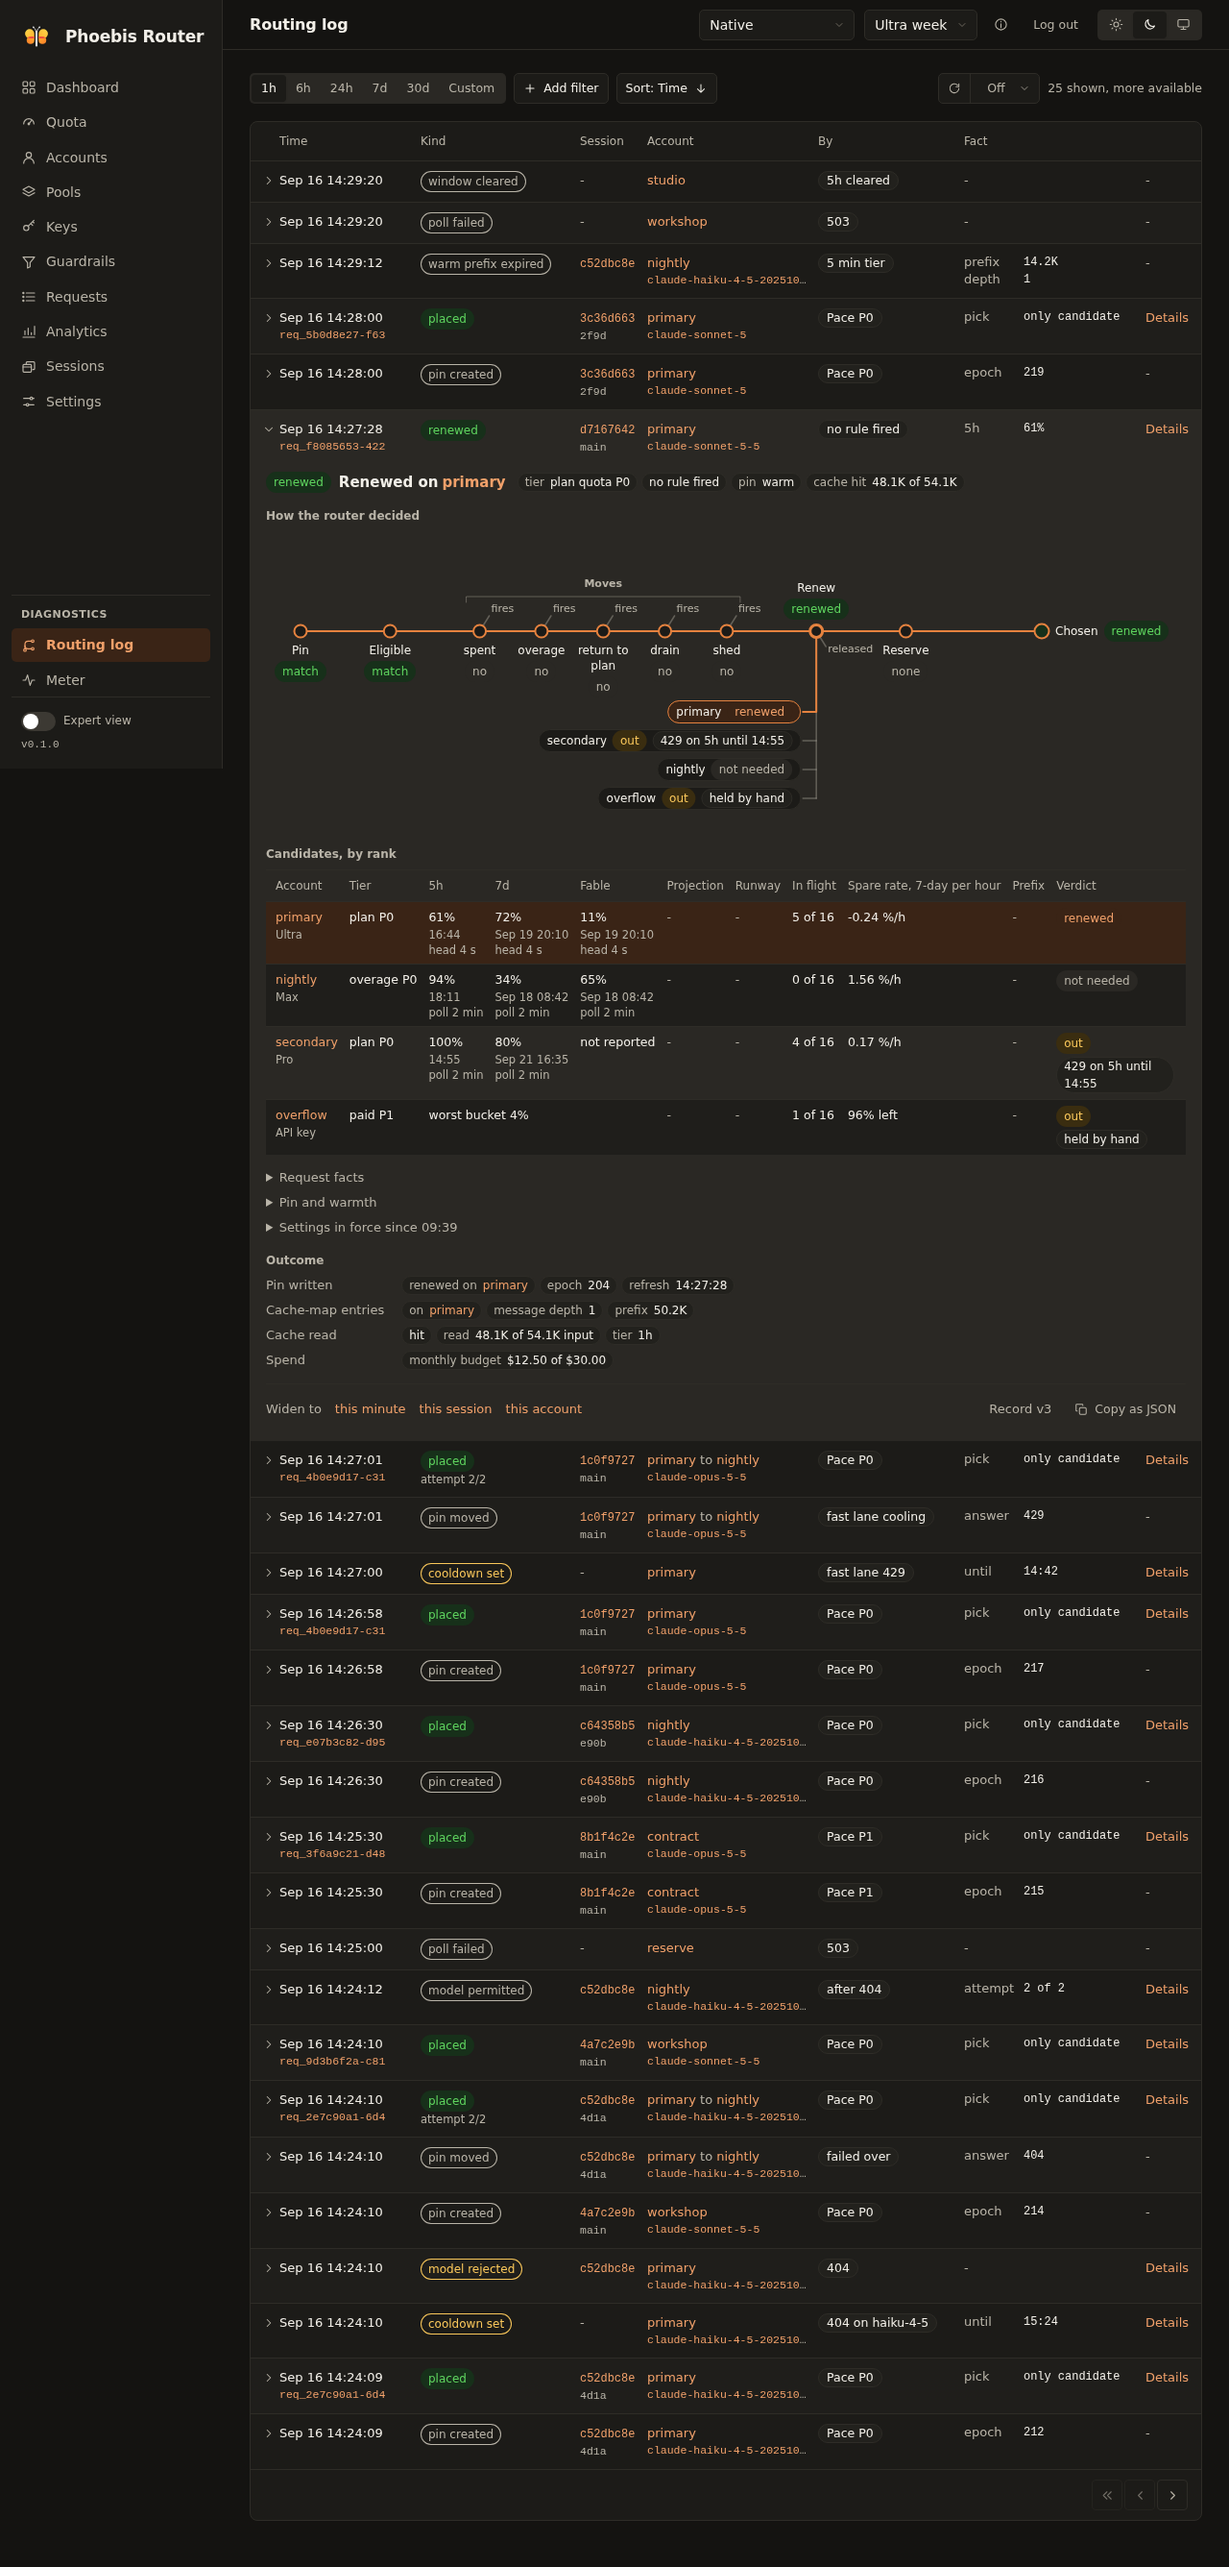
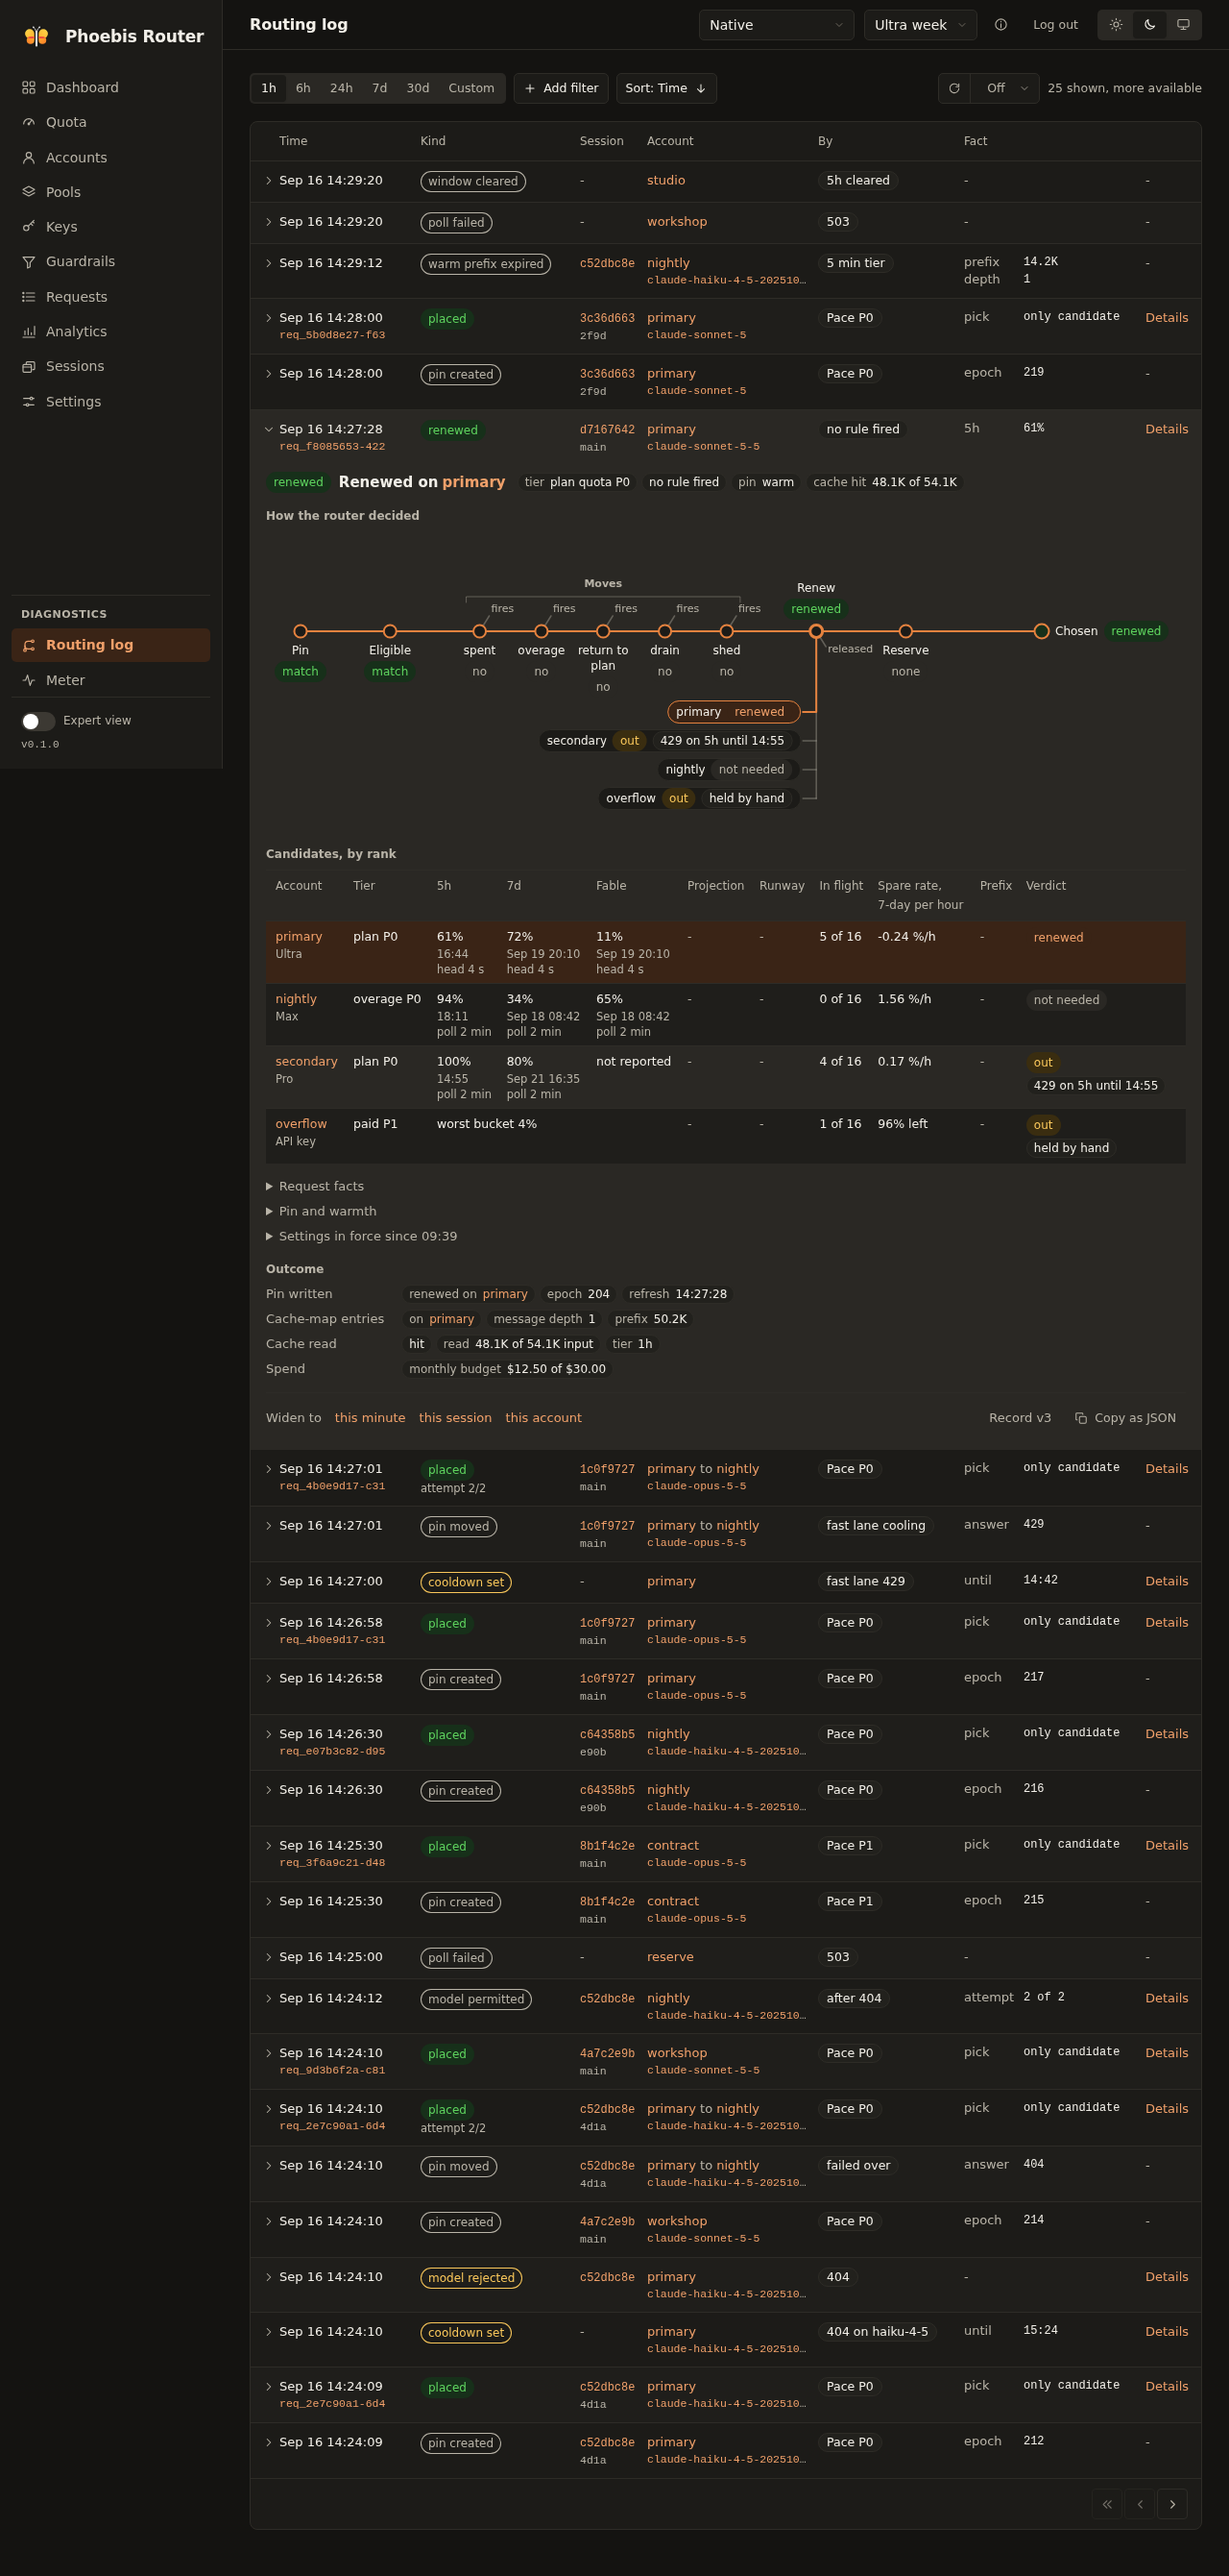
Fit a placement's candidate table in its card at 1280 px
The decision card's Projection cell drew each projected window as an
inline span in a cell that does not wrap, so the lines of a candidate
that projects more than one window ran together on one line. On the
card of the story's subagent placement req_5b0d8e27-f63 on primary,
whose candidate projects three windows, the candidate table needed
1166 px of its wrap's 958 px at 1280 by 800. It scrolled sideways and
cut the Verdict column.

Each line of the cell now stands as a block in the cell's own type.
The window cells mark their later lines with .sub, which would draw
the second and the third window smaller and in the second ink. With
the lines stacked the table needed 975 px.

The Pace column's head then set the widest column that a text fixes,
171.5 px for "Spare rate, 7-day per hour", wider than each value
under it. The head now breaks its line behind its comma on each
decision card, "Spare rate," above "7-day per hour", and keeps the
header's whole text. Left to wrap on its own, the head would stand on
one line or on two by the chips of another column, and it could break
inside "7-day". The Pace column narrows to 101.1 px, the Verdict
column takes the width that the head gave up, and the table needs
958 px of its 958 px wrap. The Routing log's two pictures follow the
head's two lines on the renewal's card that they show.

A measure of the browser pass opens the placement's card on its
request's page and fails where the candidate table's scroll width
[…]

diff --git a/web/src/components/DecisionCard.tsx b/web/src/components/DecisionCard.tsx
@@ -111,7 +111,14 @@ function Card({ now, onWiden, record, row }: { now: number; onWiden: (link: LogL
                   <th>Projection</th>
                   <th>Runway</th>
                   <th>In flight</th>
-                  <th>{paceHeader(record)}</th>
+                  <th className="decision-card__pace">
+                    {/* Each part but the last keeps its comma and space, so the head's text stays the header whole. */}
+                    {paceHeader(record)
+                      .split(', ')
+                      .map((part, i, parts) => (
+                        <span key={i}>{i < parts.length - 1 ? `${part}, ` : part}</span>
+                      ))}
+                  </th>
                   <th>Prefix</th>
                   <th>Verdict</th>
                 </tr>
@@ -146,7 +153,7 @@ function Card({ now, onWiden, record, row }: { now: number; onWiden: (link: LogL
                           </td>
                         ))
                       )}
-                      <td className="num decision-card__window" title={cells.projectionTitle ?? undefined}>
+                      <td className="num decision-card__window decision-card__projection" title={cells.projectionTitle ?? undefined}>
                         {cells.projection.map((line, j) => (
                           <span key={j} className={line === '-' ? 'muted' : undefined}>
                             {line}

diff --git a/web/src/styles/components.css b/web/src/styles/components.css
@@ -2819,7 +2819,7 @@ textarea.input {
   font-size: 11.5px;
 }
 
-/* Packed cells so the nine columns fit the card at both viewports with nothing to scroll sideways. */
+/* Packed cells so the eleven columns fit the card at both viewports with nothing to scroll sideways. */
 .decision-card__candidates {
   font-size: 12.5px;
 }
@@ -2852,6 +2852,14 @@ textarea.input {
 
 .decision-card__candidates .sub {
   line-height: 16px;
+}
+
+/* A projected window reads in the cell's own type, which a `.sub` line would shrink and mute, so the cell breaks its
+   lines itself. The Pace head breaks behind its comma the same way: on one line it is wider than each value under it,
+   and the eleven columns then need more than the card holds at 1280 px. */
+.decision-card__projection > span,
+.decision-card__pace > span {
+  display: block;
 }
 
 /* The prefix cell stacks the hash over its warmth, one value a line, as the window cells do. */

diff --git a/web/e2e/README.md b/web/e2e/README.md
@@ -410,6 +410,10 @@ opened by Enter and by Space with the focus inside its popover and closed by Esc
 the tie's pick line (in the mock pass, on a load of its own once the log's shot is taken: the story's failover that tied
 primary and nightly on Pace before nightly's overage, its Pick station's rows reading "tied primary", "tied nightly",
 "by runway primary" and "drawn no", each in the type, line height and left edge of the strategy row above it), the
+candidate table of a placement whose candidate projects three windows (in the mock pass, on a load of its own once the
+log's shot is taken: the story's subagent placement on primary two minutes before the pass's instant, a Projection cell
+of its card holding a line for each of the three windows, the table inside its wrap at 1280 by 800 with nothing
+scrolling sideways, each column's width recorded), the
 subscription end editor (its checkbox label reading Canceled in the type of the Ends label beside it), the hint a
 confirmed pairing draws in the Usage card while the first reading is in flight (in the mock pass, after the view's shot,
 read whole with its closing period against the note of the story's API-key account annex in type, ink, line height,
